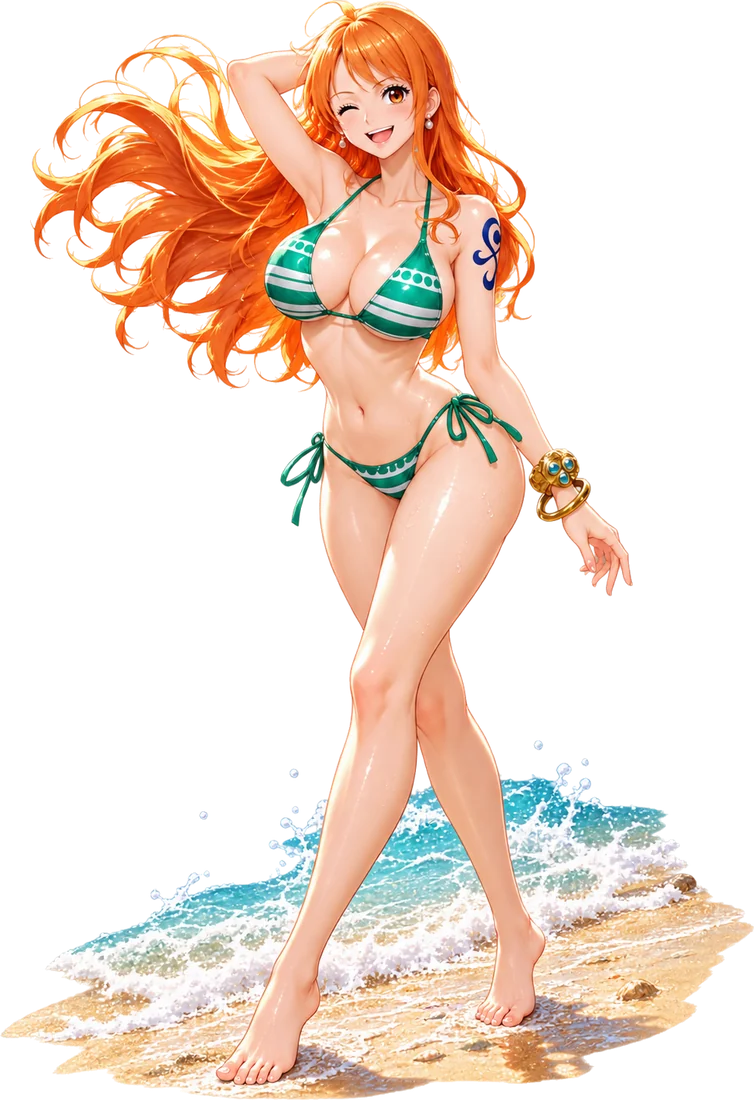
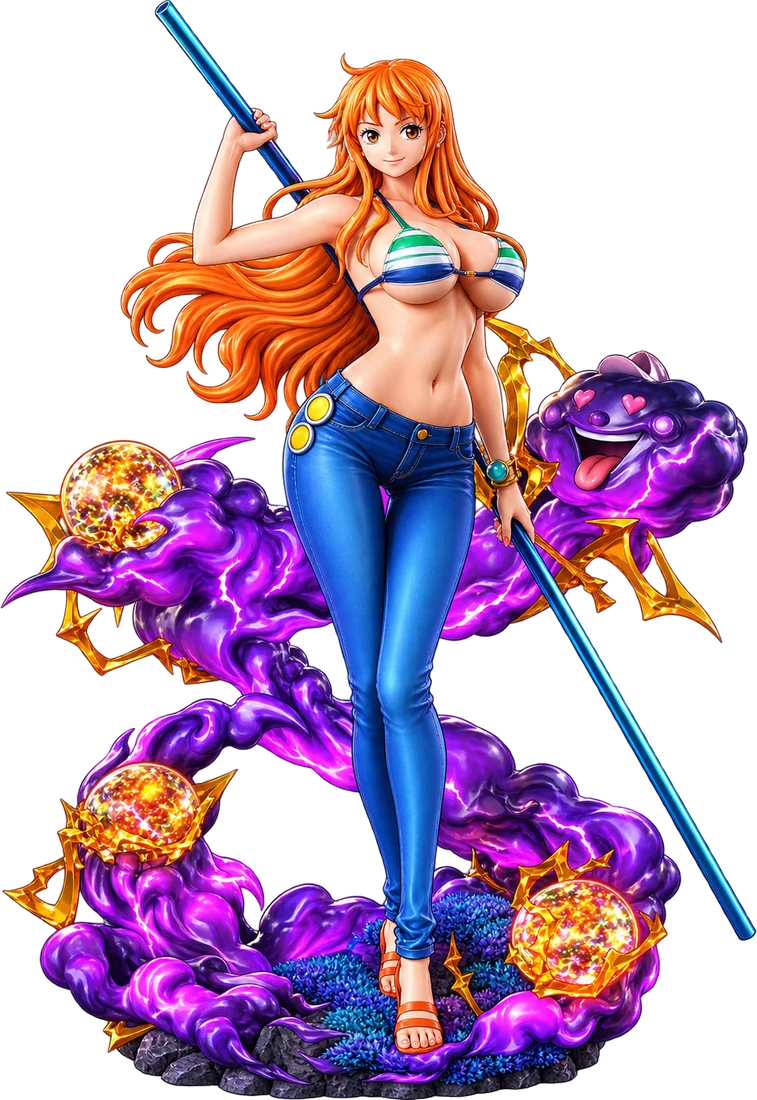
v143: 娜美新立繪、月費娜美皮膚「月下魔法師」、羅賓皮膚「城市女郎」（一般池 0.5%）
Claude-Session: https://claude.ai/code/session_01Fne8ia441BujfFaTpqBcrQ

diff --git a/js/vip_v115.js b/js/vip_v115.js
@@ -71,7 +71,7 @@
   if (typeof gainExp === 'function') { const _ge = gainExp; let inner = 0; gainExp = function (id, n, silent, noShare) { if (!inner && noShare !== true && n > 0) { const b = Math.round(n * (perk(level()).exp || 0) / 100); if (b > 0) n += b; } inner++; try { return _ge.call(this, id, n, silent, noShare); } finally { inner--; } }; } /* 分給其他船員的經驗（gainExp 內部再呼叫）不重複加成 */
 
   /* ---------- 月費 ---------- */
-  const MC = { id: '2026-10', name: '萬聖火龍燼', label: '2026 年 10 月限時月費', start: +new Date(2026, 9, 1), end: +new Date(2026, 10, 1) - 1000, price: 300, /* v127：1200 → 300（使用者指定） */ days: 30, daily: 10, tickets: 10, select: 1, char: 'king', skin: 'king_halloween', banner: 'assets/ui/monthcard_2610.webp?v=115' };
+  const MC = { id: '2026-10', name: '萬聖火龍燼', label: '2026 年 10 月限時月費', start: +new Date(2026, 9, 1), end: +new Date(2026, 10, 1) - 1000, price: 300, /* v127：1200 → 300（使用者指定） */ days: 30, daily: 10, tickets: 10, select: 1, char: 'king', skin: 'king_halloween', extraSkins: ['nami_witch'] /* v143：娜美萬聖節皮膚「月下魔法師」也包含在本期月費 */, banner: 'assets/ui/monthcard_2610.webp?v=115' };
   const mcSt = () => { const d = SAVE.data; d.mcard = d.mcard || {}; return d.mcard[MC.id]; };
   const onSale = () => Date.now() >= MC.start && Date.now() <= MC.end;
   const mcDay = () => { const s = mcSt(); return s ? dayNum(dayStr()) - dayNum(s.buy) + 1 : 0; }; /* 第幾天（購買當天是第 1 天） */
@@ -87,7 +87,7 @@
       SAVE.data.tokens -= MC.price; SAVE.data.mcard[MC.id] = { buy: dayStr(), last: '', got: 0 };
       const list = [];
       if (CHARACTERS[MC.char] && !owned(MC.char)) { addCrew(MC.char, typeof GACHA_CHAR_LV !== 'undefined' ? GACHA_CHAR_LV : 20); list.push({ char: MC.char }); }
-      const S = SAVE.data.skins = SAVE.data.skins || { owned: [], equip: {} }; S.owned = S.owned || []; if (SKINS[MC.skin] && !S.owned.includes(MC.skin)) { S.owned.push(MC.skin); list.push({ name: `皮膚「${SKINS[MC.skin].name}」`, count: 1, img: SKINS[MC.skin].avatar, rar: 'SSR' }); }
+      const S = SAVE.data.skins = SAVE.data.skins || { owned: [], equip: {} }; S.owned = S.owned || []; [MC.skin, ...(MC.extraSkins || [])].forEach(k => { if (SKINS[k] && !S.owned.includes(k)) { S.owned.push(k); list.push({ name: `皮膚「${SKINS[k].name}」`, count: 1, img: SKINS[k].avatar, rar: 'SSR' }); } });
       list.push(...give({ items: { event_ticket: MC.tickets, char_select: MC.select } }));
       mcClaim(true); list.push({ name: '寶藏幣（第 1 天）', count: MC.daily, img: COIN, rar: 'SR' });
       SAVE.save(); if (typeof coins === 'function') coins(); if (typeof SFX !== 'undefined') SFX.play('rare');
@@ -174,6 +174,7 @@
     const items = [
       [CHARACTERS[MC.char] ? CHARACTERS[MC.char].avatar : '', 'SSR 角色「燼」', '炎災・防禦速度型（月費限定取得）', 'img'],
       [SKINS[MC.skin] ? SKINS[MC.skin].avatar : '', '當月 VIP 限定皮膚', '「萬聖之燼」（只能從本期月費取得）', 'img'],
+      ...(MC.extraSkins || []).filter(k => SKINS[k]).map(k => [SKINS[k].avatar, `${CHARACTERS[SKINS[k].char] ? CHARACTERS[SKINS[k].char].name : ''}萬聖限定皮膚`, `「${SKINS[k].name}」（只能從本期月費取得）`, 'img']),
       [COIN, `每日寶藏幣 ×${MC.daily}`, `購買起 ${MC.days} 天，每天登入自動領取（共 ${MC.daily * MC.days} 枚）`, 'coin'],
       ['ticket', `限定抽獎券 ×${MC.tickets}`, '可在任一限定召喚池使用', 'ico'],
       ['card', `SSR 角色選擇卡 ×${MC.select}`, '一般召喚池 SSR 角色任選一位', 'ico']];
@@ -264,7 +265,9 @@
       if (!busyUI()) { stop(); setTimeout(() => { if (!busyUI()) showAd(); else queueAd(); }, 1200); } }, 700); }
 
   /* 進入大廳：升級禮包補發、月費每日寶藏幣、名片徽章、宣傳 */
-  function onLobby() { try { if (!SAVE.data || !Object.keys(SAVE.data.roster || {}).length) return; grantOnce(false); mcClaim(false); refreshLobby(); setTimeout(refreshLobby, 60); queueAd(); } catch (e) { console.warn('VIP', e); } }
+  /* v143：已經買過本期月費的玩家，補發後來加入的月費皮膚 */
+  function mcExtraGrant() { if (!mcSt()) return; const S = SAVE.data.skins = SAVE.data.skins || { owned: [], equip: {} }; S.owned = S.owned || []; const got = (MC.extraSkins || []).filter(k => SKINS[k] && !S.owned.includes(k)); if (!got.length) return; got.forEach(k => S.owned.push(k)); SAVE.save(); setTimeout(() => toast(`月費追加福利：獲得皮膚${got.map(k => `「${SKINS[k].name}」`).join('、')}！`, 'gold'), 1600); }
+  function onLobby() { try { if (!SAVE.data || !Object.keys(SAVE.data.roster || {}).length) return; grantOnce(false); mcExtraGrant(); mcClaim(false); refreshLobby(); setTimeout(refreshLobby, 60); queueAd(); } catch (e) { console.warn('VIP', e); } }
   window.addEventListener('DOMContentLoaded', () => {
     const om = window.openModes; if (om) window.openModes = function () { const r = om.apply(this, arguments); setTimeout(onLobby, 300); return r; };
     const rl = window.renderLobby; if (rl) window.renderLobby = function () { const r = rl.apply(this, arguments); refreshLobby(); return r; };

diff --git a/js/skins_v143.js b/js/skins_v143.js
@@ -1,0 +1,47 @@
+/* v143 新皮膚：
+   ・娜美「月下魔法師」（nami_witch）：2026 年 10 月月費限定，購買月費即可獲得（vip_v115.js 的 MC.extraSkins；已買過的玩家進大廳時補發）。戰鬥立繪縮放 0.75。
+   ・妮可·羅賓「城市女郎」（robin_city）：只能從一般懸賞召喚（tokens 抽獎、免費抽、召喚券）隨機抽到，取代原本的「？？？ 敬請期待」位置。戰鬥立繪縮放 0.8。
+     機率 0.5%（從 SSR 道具機率中分出來，總機率不變）；保底與十連保底補的那一抽不會出皮膚。重複抽到 → 覺醒結晶 ×10。
+   抽獎道具 ITEMS.skin_robin_city 標 noPool，不會被一般道具池或活動池抽到；只由這裡的 rollOne 包裝決定。
+   載入順序：data.js 之後即可；rollOne／grant／openGacha 的包裝在 DOMContentLoaded 時掛上。 */
+(function () {
+  const V = 143, img = n => `assets/chars/${n}.webp?v=${V}`;
+  const RATE = .005, DUP_GEM = 10, KEY = 'robin_city', ITEM = 'skin_robin_city';
+  SKINS.nami_witch = { char: 'nami', name: '月下魔法師', image: img('nami_skin2'), avatar: img('nami_skin2_face'), battleScale: .75, monthCard: '2026-10', how: '2026 年 10 月月費限定（購買月費即可獲得）' };
+  delete SKINS.robin_s2;
+  SKINS[KEY] = { char: 'robin', name: '城市女郎', image: img('robin_skin3'), avatar: img('robin_skin3_face'), battleScale: .8, gacha: true, how: `一般懸賞召喚獲得（機率 ${RATE * 100}%）` };
+  ITEMS[ITEM] = { name: '皮膚「城市女郎」', rarity: 'SSR', noPool: true, skin: KEY, img: SKINS[KEY].avatar, icon: 'gem', color: '#ff7ab0', effect: {},
+    desc: `妮可·羅賓的皮膚，抽到馬上可以在角色背包換上。重複抽到時自動換成覺醒結晶 ×${DUP_GEM}。` };
+
+  /* SSR 道具實際的絕對機率（照 app.js rollOne 的累加方式：船員、N、R、SR 之後剩下的才是 SSR）→ 皮膚佔其中多少比例，讓皮膚實際機率＝RATE */
+  const ssrAbs = () => { const before = GAME_SETTINGS.charRate + RARITY.N.rate + RARITY.R.rate + RARITY.SR.rate; return Math.max(1e-6, Math.min(RARITY.SSR.rate, 1 - before)); };
+  window.addEventListener('DOMContentLoaded', () => {
+    if (typeof rollOne !== 'function' || typeof grant !== 'function') return;
+    const _roll = rollOne;
+    rollOne = function (minR) {
+      const x = _roll.apply(this, arguments);
+      if (!minR && x && x.item && ITEMS[x.item].rarity === 'SSR' && Math.random() < RATE / ssrAbs()) return { item: ITEM };
+      return x;
+    };
+    const _grant = grant;
+    grant = function (res) {
+      const S = SAVE.data.skins = SAVE.data.skins || { owned: [], equip: {} }; S.owned = S.owned || [];
+      let dup = 0, fresh = false;
+      (res || []).forEach(x => { if (!x || !x.item || !ITEMS[x.item] || !ITEMS[x.item].skin) return; const k = ITEMS[x.item].skin;
+        if (S.owned.includes(k)) { x.dup = true; dup++; } else { S.owned.push(k); fresh = true; } x.skinDone = true; });
+      if (dup) { const inv = SAVE.data.inventory = SAVE.data.inventory || {}; inv.awaken_gem = (inv.awaken_gem || 0) + DUP_GEM * dup; }
+      const r = _grant.call(this, (res || []).filter(x => !(x && x.skinDone)));
+      if (fresh) setTimeout(() => toast(`獲得皮膚「${SKINS[KEY].name}」！可在角色背包裝備`, 'gold'), 2400);
+      if (dup) setTimeout(() => toast(`皮膚「${SKINS[KEY].name}」重複，換成覺醒結晶 ×${DUP_GEM * dup}`, 'gold'), 2400);
+      SAVE.save(); return r;
+    };
+    if (typeof openGacha === 'function') {
+      const _open = openGacha;
+      openGacha = function () {
+        const r = _open.apply(this, arguments), t = document.getElementById('rateTable');
+        if (t && !t.querySelector('.rt-skin')) t.insertAdjacentHTML('beforeend', `<tr class="rt-skin"><th><span class="rar r-SSR">皮膚</span></th><td>${+(RATE * 100).toFixed(2)}%</td><td>妮可·羅賓「${SKINS[KEY].name}」（包含在 SSR 道具機率內；重複換覺醒結晶 ×${DUP_GEM}）</td></tr>`);
+        return r;
+      };
+    }
+  });
+})();

diff --git a/js/app.js b/js/app.js
@@ -580,7 +580,7 @@ function hideDialog() { setDialogMin(false); dialogOpen = false; $('dialog').cla
 let gachaReturn = 'chapterScreen', gachaBusy = false;
 function openGacha(ret) {
   gachaReturn = typeof ret === 'string' ? ret : currentScreen === 'gachaScreen' ? gachaReturn : currentScreen; coins();
-  $('rateTable').innerHTML = '<caption>出現機率</caption>' + `<tr><th><span class="rar c-rar r-CHAR">船員</span></th><td>${+(GAME_SETTINGS.charRate * 100).toFixed(1)}%</td><td>UR ${+(CHAR_RATE_BY_RARITY.UR * 100).toFixed(2)}%・SSR ${+(CHAR_RATE_BY_RARITY.SSR * 100).toFixed(2)}%・SR ${+(CHAR_RATE_BY_RARITY.SR * 100).toFixed(2)}%（LV ${GACHA_CHAR_LV} 加入；重複可到海軍本部換貝里）</td></tr>` + Object.entries(RARITY).map(([k, r]) => `<tr><th><span class="rar r-${k}">${k}</span></th><td>${Math.round(r.rate * (1 - GACHA_CHAR_RATE) * 100)}%</td><td>${Object.values(ITEMS).filter(i => i.rarity === k).map(i => i.name).join('、')}</td></tr>`).join(''); pityCaption();
+  $('rateTable').innerHTML = '<caption>出現機率</caption>' + `<tr><th><span class="rar c-rar r-CHAR">船員</span></th><td>${+(GAME_SETTINGS.charRate * 100).toFixed(1)}%</td><td>UR ${+(CHAR_RATE_BY_RARITY.UR * 100).toFixed(2)}%・SSR ${+(CHAR_RATE_BY_RARITY.SSR * 100).toFixed(2)}%・SR ${+(CHAR_RATE_BY_RARITY.SR * 100).toFixed(2)}%（LV ${GACHA_CHAR_LV} 加入；重複可到海軍本部換貝里）</td></tr>` + Object.entries(RARITY).map(([k, r]) => `<tr><th><span class="rar r-${k}">${k}</span></th><td>${Math.round(r.rate * (1 - GACHA_CHAR_RATE) * 100)}%</td><td>${Object.values(ITEMS).filter(i => i.rarity === k && !i.noPool).map(i => i.name).join('、')}</td></tr>`).join(''); pityCaption();
   const caps = $('mCaps'); if (!caps.children.length) { const cols = ['#e8553b', '#3fb6c9', '#ffd26c', '#b58cff', '#6fd08c', '#f4f7f2']; let seed = 7; const rnd = () => (seed = (seed * 16807) % 2147483647) / 2147483647; let placed = 0, guard = 0; while (placed < 30 && guard++ < 4000) { const x = 8 + rnd() * 84, y = 40 + rnd() * 52; if (Math.hypot(x - 50, y - 50) > 40) continue; const s = document.createElement('i'); s.style.cssText = `--c:${cols[placed % cols.length]};left:${x - 7}%;top:${y - 7}%;--r:${Math.round(rnd() * 360)}deg;z-index:${Math.round(y)}`; caps.appendChild(s); placed++; } }
   updateGachaBtns(); showScreen('gachaScreen'); if (typeof switchHub === 'function') switchHub('summon');
 }
@@ -613,7 +613,7 @@ function rollOne(minR) {
   const order = ['N', 'R', 'SR', 'SSR']; let rar = 'N', acc = minR ? 0 : GAME_SETTINGS.charRate; if (minR) r = Math.random() * order.reduce((t, k) => t + RARITY[k].rate, 0);
   for (const k of order) { acc += RARITY[k].rate; if (r < acc) { rar = k; break; } }
   if (minR && order.indexOf(rar) < order.indexOf(minR)) rar = Math.random() < .9 ? 'SR' : 'SSR';
-  const pool = Object.entries(ITEMS).filter(([, i]) => i.rarity === rar); return { item: pool[Math.floor(Math.random() * pool.length)][0] };
+  const pool = Object.entries(ITEMS).filter(([, i]) => i.rarity === rar && !i.noPool); /* v143：noPool＝不從道具池隨機抽出（例：皮膚另有獨立機率） */ return { item: pool[Math.floor(Math.random() * pool.length)][0] };
 }
 const rarOf = (x) => x.char ? 'SSR' : ITEMS[x.item].rarity;
 /* 跳過動畫：動畫期間顯示「跳過」按鈕，按下後剩下的等待全部立即結束 */

diff --git a/js/data_ext.js b/js/data_ext.js
@@ -356,6 +356,7 @@
   DEFAULT_NEWS.unshift({ id: 'd1060', date: '2026-10-09', tag: '更新', title: '技能特效全面升級', body: '・所有招式加上泛光、屬性氣場、腳下魔法陣、命中爆發與打擊停頓\n・每位角色都有專屬配色與奧義全畫面演出：火海、冰封、雷暴、海嘯、深淵、沙暴、霸王色、花雨……\n・手機發燙或卡頓時，可以在設定 → 戰鬥 → 技能特效 改成「低」' });
   DEFAULT_NEWS.unshift({ id: 'd1061', date: '2026-10-09', tag: '修正', title: '修正角色培養、洛克斯挑戰畫面閃爍', body: '・修正手機（含 LINE 內建瀏覽器）打開角色培養、洛克斯挑戰時，畫面閃爍、出現方塊殘影或上半部空白的問題\n・洛克斯挑戰背景會提早載入' });
   DEFAULT_NEWS.unshift({ id: 'd1064', date: '2026-10-10', tag: '更新', title: '新船員娜美登場・天候祭・全角色平衡', body: '・新船員「娜美」（SSR）加入一般懸賞召喚：用天候棒操縱雷雲，奧義「宙斯・微風節奏」\n・限時活動「天候祭」（10/10～11/10）：活動期間戰鬥勝利 20 場，免費獲得娜美皮膚「波雲雷擊」\n・全角色平衡調整：同稀有度角色互打更接近五五波，高稀有度對低稀有度保持優勢' });
+  DEFAULT_NEWS.unshift({ id: 'd1065', date: '2026-10-10', tag: '更新', title: '娜美新立繪・兩款新皮膚', body: '・娜美換上新立繪\n・10 月月費加碼：購買月費再送娜美萬聖節限定皮膚「月下魔法師」（已購買的船長進大廳自動補發）\n・羅賓新皮膚「城市女郎」：一般懸賞召喚 0.5% 機率抽到，重複抽到換成覺醒結晶 ×10' });
   DEFAULT_NEWS.unshift({ id: 'd1063', date: '2026-10-09', tag: '修正', title: '新手教學期間不再跳出月費宣傳', body: '・新手大廳導覽進行中不會再跳出月費宣傳，導覽完成（或略過）後才會顯示' });
   DEFAULT_NEWS.unshift({ id: 'd1062', date: '2026-10-09', tag: '更新', title: '每位角色的招牌技能動畫・載入畫面修正', body: '・每位角色出招時都有自己的招牌動畫：阿修羅鬼影、火拳、ROOM、鳥籠、不死鳥火翼、青龍、雷鼓、愛心、蝙蝠……奧義時規模更大\n・修正載入畫面背景被換掉的問題，恢復洛基背景' });
   /* 東海篇：斧手摩根改用專屬造型（金色短髮、鐵下巴、斧頭手、海軍大衣） */

diff --git a/js/roster_v142.js b/js/roster_v142.js
@@ -1,11 +1,11 @@
 /* v142：娜美（天候棒・SSR・爆發速度型）——只能從一般懸賞召喚取得。序號 No.003（草帽一夥第 3 位，必須在 roster_v91 之前載入）。
    招式參考原作的魔法天候棒（Sorcery Clima-Tact）與雷雲「宙斯」：先用落雷與蜃氣樓累積速度、偷走對手的強化，再一口氣放出宙斯的雷擊。
-   特殊效果 namiSteal、namiZeus 在 ext_v142.js；五招動畫在 fx_v142.js。戰鬥立繪縮放 0.6（使用者指定）。
+   特殊效果 namiSteal、namiZeus 在 ext_v142.js；五招動畫在 fx_v142.js。戰鬥立繪縮放 0.7（v143 換新立繪，使用者指定）。
    皮膚「波雲雷擊」（nami_cloud）：活動中心的限時活動「天候祭」免費取得（weekly.js）。 */
 (function () {
-  const V = 142, S = (name, type, pp, power, desc, tags, anima, effect, ult) => Object.assign({ name, type, pp, maxPP: pp, power, accuracy: 100, desc, tags, anima, effect: effect || {} }, ult ? { ultimate: true } : {});
-  CHARACTERS.nami = { id: 'nami', name: '娜美', title: '小貓竊賊', types: ['雷電', '水'], scale: .95, worldScale: 1, battleScale: .6, ai: 'aggressive',
-    image: `assets/chars/nami.webp?v=${V}`, avatar: `assets/chars/nami_face.webp?v=${V}`, ultimateBg: `assets/chars/nami.webp?v=${V}`, cardPos: '50% 8%', cardFocus: '50% 10%',
+  const V = 142, V2 = 143, S = (name, type, pp, power, desc, tags, anima, effect, ult) => Object.assign({ name, type, pp, maxPP: pp, power, accuracy: 100, desc, tags, anima, effect: effect || {} }, ult ? { ultimate: true } : {});
+  CHARACTERS.nami = { id: 'nami', name: '娜美', title: '小貓竊賊', types: ['雷電', '水'], scale: .95, worldScale: 1, battleScale: .7, ai: 'aggressive',
+    image: `assets/chars/nami.webp?v=${V2}`, avatar: `assets/chars/nami_face.webp?v=${V2}`, ultimateBg: `assets/chars/nami.webp?v=${V2}`, cardPos: '50% 8%', cardFocus: '50% 10%',
     maxHp: 1300, baseSpeed: 132, statScale: 1, role: '爆發速度型',
     desc: '草帽一夥的航海士，綽號「小貓竊賊」。能讀懂天氣與海流，用魔法天候棒操縱雷雲、熱氣與冷氣；和雷雲「宙斯」聯手時，雷擊足以撼動整片海。最愛的是橘子和錢。',
     skills: [

diff --git a/index.html b/index.html
@@ -573,8 +573,8 @@
 <div class="toast" id="toast" role="status" aria-live="polite"></div>
 <div class="loading" id="loading"><div class="ld-wheel"></div><span>載入中</span></div>
 
-<script src="js/data.js?v=142"></script>
-<script src="js/data_ext.js?v=142"></script>
+<script src="js/data.js?v=143"></script>
+<script src="js/data_ext.js?v=143"></script>
 <script src="js/story_ext.js?v=100"></script>
 <script src="js/story_more.js?v=100"></script>
 <script src="js/story_more2.js?v=100"></script>
@@ -615,7 +615,7 @@
 <script src="js/fx_v111.js?v=142"></script>
 <script src="js/admin.js?v=115"></script>
 <script src="js/visual_admin.js?v=128"></script>
-<script src="js/app.js?v=135"></script>
+<script src="js/app.js?v=143"></script>
 <script src="js/hardmode.js?v=100"></script>
 <script src="js/hub.js?v=100"></script>
 <script src="js/seer.js?v=100"></script>
@@ -636,7 +636,7 @@
 <script src="js/roster_v121.js?v=121b"></script>
 <script src="js/roster_v128.js?v=130"></script>
 <script src="js/roster_v129.js?v=130"></script>
-<script src="js/roster_v142.js?v=142"></script>
+<script src="js/roster_v142.js?v=143"></script>
 <script src="js/roster_v91.js?v=142"></script>
 <script src="js/balance_v142.js?v=142"></script>
 <script src="js/icons.js?v=100"></script>
@@ -664,11 +664,12 @@
 <script src="js/social.js?v=131"></script>
 <script src="js/live.js?v=130"></script>
 <script src="js/guild.js?v=116"></script>
-<script src="js/settings.js?v=142"></script>
+<script src="js/settings.js?v=143"></script>
 <script src="js/weekly.js?v=142"></script>
-<script src="js/event.js?v=135"></script>
+<script src="js/event.js?v=143"></script>
 <script src="js/music.js?v=120"></script>
-<script src="js/vip_v115.js?v=141"></script>
+<script src="js/vip_v115.js?v=143"></script>
+<script src="js/skins_v143.js?v=143"></script>
 <script src="js/bag_v116.js?v=136"></script>
 <script src="js/rhythm_charts.js?v=122b"></script>
 <script src="js/rhythm_v118.js?v=131"></script>

diff --git a/js/event.js b/js/event.js
@@ -41,7 +41,7 @@
   /* 懸賞任務全部領取後 +2 抽 */
   window.eventBountyCheck = function () { try { const today = new Date().toDateString(), list = bounties().filter(b => !b.premium); if (!list.length || !list.every(b => b.claimed)) return; let n = 0; POOLS().filter(pl => phase(pl.id) !== 'soon').forEach(pl => { const E = st(pl); if (E.bountyDay !== today) { E.bountyDay = today; E.tickets += pl.bountyBonus; n = pl.bountyBonus; } }); if (n) { SAVE.save(); toast(`完成全部每日懸賞！活動抽獎券 +${n}`, 'gold'); } } catch (e) { } };
 
-  function rollItem() { const order = ['N', 'R', 'SR', 'SSR'], tot = order.reduce((t, k) => t + RARITY[k].rate, 0); let r = Math.random() * tot, rar = 'N'; for (const k of order) { r -= RARITY[k].rate; if (r < 0) { rar = k; break; } } const pool = Object.keys(ITEMS).filter(k => ITEMS[k].rarity === rar); return { item: pool[Math.floor(Math.random() * pool.length)] || 'potion_s', rar }; }
+  function rollItem() { const order = ['N', 'R', 'SR', 'SSR'], tot = order.reduce((t, k) => t + RARITY[k].rate, 0); let r = Math.random() * tot, rar = 'N'; for (const k of order) { r -= RARITY[k].rate; if (r < 0) { rar = k; break; } } const pool = Object.keys(ITEMS).filter(k => ITEMS[k].rarity === rar && !ITEMS[k].noPool); return { item: pool[Math.floor(Math.random() * pool.length)] || 'potion_s', rar }; }
   function amount() { let r = Math.random(); for (const [n, p] of P().amount) { if ((r -= p) < 0) return n; } return P().amount[0][0]; }
   function rollOne(E) {
     const force = E.pity >= P().pity - 1; let r = Math.random(), hit = null;

diff --git a/js/settings.js b/js/settings.js
@@ -2,7 +2,7 @@
 window.addEventListener('beforeinstallprompt', e => { e.preventDefault(); window.__installPrompt = e; });
 /* 設定頁（大廳「設定」與首頁「設定」共用）＋ 新手教學（大廳聚光燈導覽）。
    設定存在 localStorage：op_gfx（畫質）、op_motion（減少動態）、op_bspeed（預設戰鬥速度）、op_vibe（震動回饋）、op_live_pop（即時對戰邀請通知）、op_text（文字大小）、op_fxpro（技能特效高／低，v138）。 */
-const GAME_VERSION = 'v142';
+const GAME_VERSION = 'v143';
 (function () {
   const get = k => { try { return localStorage.getItem(k); } catch (e) { return null; } }, put = (k, v) => { try { localStorage.setItem(k, v); } catch (e) { } };
   /* ---------- 套用設定 ---------- */

diff --git a/js/data.js b/js/data.js
@@ -1,5 +1,5 @@
 /* 資料版本：每次改動角色或劇情資料時加一。後台設定若來自舊版本會自動停用，避免舊劇情覆蓋新內容。 */
-const DATA_VERSION = 56;
+const DATA_VERSION = 57;
 /* 七日登入獎勵：第 7 天領完後從第 1 天重新開始 */
 const LOGIN_REWARDS = [
  {day:1, label:'貝里 5,000', berry:5000},

diff --git a/docs/CODEMAP.md b/docs/CODEMAP.md
@@ -19,6 +19,7 @@
 - `js/lobby_v118.js`: F:箭頭換 SVG（fixArrows）、點船長說話、限定召喚輪播控制、電腦版兩欄（搬移 DOM，.l2-colL/.l2-colR） | S:lobby.js 的 __lbEvNext 提供切換
 - `js/rhythm_v118.js`＋`js/rhythm_charts.js`＋`css/v121_rhythm.css`（選曲／結算）＋`css/v121b_rhythm.css`（遊玩畫面 .rgx）＋`assets/ui/rhythm/`（預先處理的舞台素材）: S:舞台不要用 CSS mask／filter／混合模式（手機點擊時會閃黑），新效果先做進圖檔；美音晃動在 bob()（JS 改 transform） | F:歌姬挑戰（openRhythm；v121 由歌姬劇場改名），譜面 [ms, lane, 種類, 長按ms]；SAVE.data.rhythm（best、uta＝美音碎片 {shards, songs＝已領過的歌, total}；每首歌第一次 S 以上 +20）；長按 HOLD_OK＝0.7；FEVER（feverGain／feverOn）；潑墨背景 inkBg；固定 BOSS 美音 BOSS_CFG（依難度的體力、攻擊間隔、歌聲衝擊／催眠霧／五線譜束縛、HARD 魔王降臨）；半立體音軌（SF 遠端縮放、sAt/yAt/xAt 透視、laneOf(x,y) 依觸控高度換算軌道）；RHYTHM_UTA、renderShardPane 加上美音 | S:新歌用 tools/rhythm_chart_v121.py 產生（舊的 rhythm_beatmap.py／rhythm_lanes.py 不再使用）；開啟時呼叫 MUSIC.hold(true) 停止背景音樂（js/music.js），關閉時 hold(false)；RHYTHM._auto(ms) 自動演奏、_atk(種類)、_warn、_demon 為測試用；霧與束縛的淡入用 performance.now（歌曲時鐘在部分裝置會跳格）
 - `js/roster_v142.js`／`ext_v142.js`／`fx_v142.js`: F:娜美（nami，No.003，SSR，一般池）與效果 namiZeus（奧義依自身速度提升加傷）、namiSteal { pp, to }（偷走對手能力提升與技能次數）；皮膚 nami_cloud（event:'weather142'） | S:roster_v142 必須在 roster_v91 之前載入；ext_v142 在 ext_v121 之後、ext_v128 之前
+- `js/skins_v143.js`: F:皮膚 nami_witch（月費 2026-10，MC.extraSkins）、robin_city（一般懸賞召喚 0.5%）＋抽獎道具 ITEMS.skin_robin_city（noPool）；包住 rollOne（無 minR 且抽到 SSR 道具時依比例換成皮膚）、grant（皮膚入 SAVE.data.skins.owned，重複換覺醒結晶 ×10）、openGacha（機率表加一列） | R:app.js、vip_v115.js | S:vip_v115 之後載入；ITEMS.noPool 的道具不進一般道具池與活動池
 - `js/balance_v142.js`: F:全角色平衡表 STAT_V142（各角色 statScale）、RARITY_V142（各稀有度 rarityScale）；window.BALANCE_V142 | R:battle_core.js rarityScale、tests/tier-sim.js | S:必須在所有 roster 檔（含 roster_v91）之後載入；只影響套用 applyRarityScale 的玩家角色、PvP 與試煉換算，關卡敵人不受影響；新增角色後用 tier-sim 重新求值
 - `js/weekly.js`（v142）: F:限時活動 WEATHER_FEST（天候祭：活動期間戰鬥勝利 goal 場領皮膚；SAVE.data.wfest {id, base, got}）、window.WFEST | S:進度從活動期間第一次進大廳時開始算；換新活動要換 id
 - `tests/tier-sim.js`: F:稀有度對戰矩陣（window.__TIER = { ids, pairs?, n, scale, rs }），平衡調整用；復活規則與 live.js rise 相同
@@ -53,7 +54,7 @@
 - `js/roster_v118.js`／`ext_v118.js`／`fx_v118.js`: F:尼卡魯夫（luffy_nika）與效果 dmgToShield、nikaThunder（battle.js 的 onEvaded 掛鉤）、nikaTeamHeal、nikaTriple、nikaLegacy
 - `js/bag_v116.js`: F:背包 openBag（取代 app.js 版；分類 CAT_OF、獲取方式 SRC/GO、使用 USE）、頭像快取參數 FACES、橫式立繪偵測（.cer-char/.cx-art img 加 .wide） | S:vip_v115 之後載入；新道具要補 CAT_OF 與 SRC
 - `css/v116.css`: F:背包 .bg2-*、船團 .gl-*（舊 .gd-card/.gd-wrap 是新手導覽的類別，船團不要再用）
-- `js/vip_v115.js`: F:VIP 會員中心 openVIP（會員／月費／儲值）、VIP 等級 vipLevel（SAVE.data.vip.paid）、福利 PERK（貝里／經驗加成包住 addBerry、gainExp）、月費 MC（SAVE.data.mcard、每日寶藏幣 mcClaim）、登入宣傳 mc-ad（SAVE.data.mcAdHide；v141 起新手導覽 GUIDE 未完成或 .gd-wrap 顯示時不跳，guidePending）、新道具 event_ticket／char_select、openCharSelect、大廳徽章 refreshLobby、VIP.recharge（儲值入帳，目前只給後台測試） | R:modes.js openModes、lobby.js renderLobby、event.js（限定抽獎券）、social.js／guild.js（vipTag） | S:月費檔期改 MC；新月費要新的 id 與皮膚 monthCard 欄位
+- `js/vip_v115.js`: F:VIP 會員中心 openVIP（會員／月費／儲值）、VIP 等級 vipLevel（SAVE.data.vip.paid）、福利 PERK（貝里／經驗加成包住 addBerry、gainExp）、月費 MC（SAVE.data.mcard、每日寶藏幣 mcClaim）、登入宣傳 mc-ad（SAVE.data.mcAdHide；v141 起新手導覽 GUIDE 未完成或 .gd-wrap 顯示時不跳，guidePending）、新道具 event_ticket／char_select、openCharSelect、大廳徽章 refreshLobby、VIP.recharge（儲值入帳，目前只給後台測試） | R:modes.js openModes、lobby.js renderLobby、event.js（限定抽獎券）、social.js／guild.js（vipTag） | S:月費檔期改 MC；新月費要新的 id 與皮膚 monthCard 欄位；MC.extraSkins＝額外贈送的皮膚（v143，已購買者進大廳補發 mcExtraGrant）
 - `js/roster_v115.js`: F:燼（king）、皮膚 king_halloween、和之國篇小 BOSS 步驟 | S:必須在 roster_v91 之前載入；步驟插入的舊存檔轉換在 app.js chState（v115）
 - `js/ext_v115.js`: F:效果 ppUpRandom、kingFlame（減傷＋反彈，熄滅時加速） | S:ext_v110 之後載入
 - `js/fx_v115.js`: F:燼第 1～4 招專屬動畫

diff --git a/CHANGELOG.md b/CHANGELOG.md
@@ -3,6 +3,12 @@
 每累積約 20 個版本統整一次。逐版的完整紀錄（v1～v97）保存在 [docs/archive/README_v1-v97_完整更新紀錄.md](docs/archive/README_v1-v97_完整更新紀錄.md)。
 
 ## 未統整（v98 起，下次在 v118 左右統整）
+### v143
+- **娜美換新立繪**，戰鬥立繪縮放 0.6 → 0.7（js/roster_v142.js、assets/chars/nami.webp）。
+- **月費新增娜美萬聖節限定皮膚「月下魔法師」**（戰鬥立繪縮放 0.75）：購買 2026 年 10 月月費即可獲得；本期已購買的玩家，進大廳時自動補發（js/vip_v115.js MC.extraSkins、js/skins_v143.js）。月費頁面多一列說明。
+- **妮可·羅賓新皮膚「城市女郎」**（戰鬥立繪縮放 0.8）：只能從一般懸賞召喚抽到，機率 0.5%（從 SSR 道具機率中分出，總機率不變；保底補的那一抽不會出），機率表多一列公開；重複抽到換成覺醒結晶 ×10。取代羅賓原本「？？？ 敬請期待」的皮膚位置（js/skins_v143.js）。
+- 道具新增 noPool 標記：標記的道具不會被一般道具池與活動池隨機抽到（js/app.js、js/event.js）。
+- 測試：資料檢查、smoke、flow 通過；抽獎 20 萬次模擬皮膚機率約 0.5%。
 ### v142
 - **新角色：娜美**（No.003、SSR、爆發速度型、僅一般懸賞召喚取得；js/roster_v142.js、ext_v142.js、fx_v142.js）。五招參考原作天候棒：雷擊節奏（落雷、麻痺、自身加速）、蜃氣樓節奏（閃避、先制、2 回合增傷）、小貓竊賊（先制、偷走對手的能力提升與技能次數）、雷光槍節奏（無視護盾、爆擊、破防）、奧義宙斯・微風節奏（5～12 倍、必定麻痺、速度提升越多傷害越高）。戰鬥立繪縮放 0.6；招牌動畫、奧義標題、試煉（宿敵荷帝）一併加入。
 - **限時活動「天候祭」**（活動中心）：活動期間戰鬥勝利 20 場，免費獲得娜美皮膚「波雲雷擊」（js/weekly.js WEATHER_FEST、css/v142.css）。
